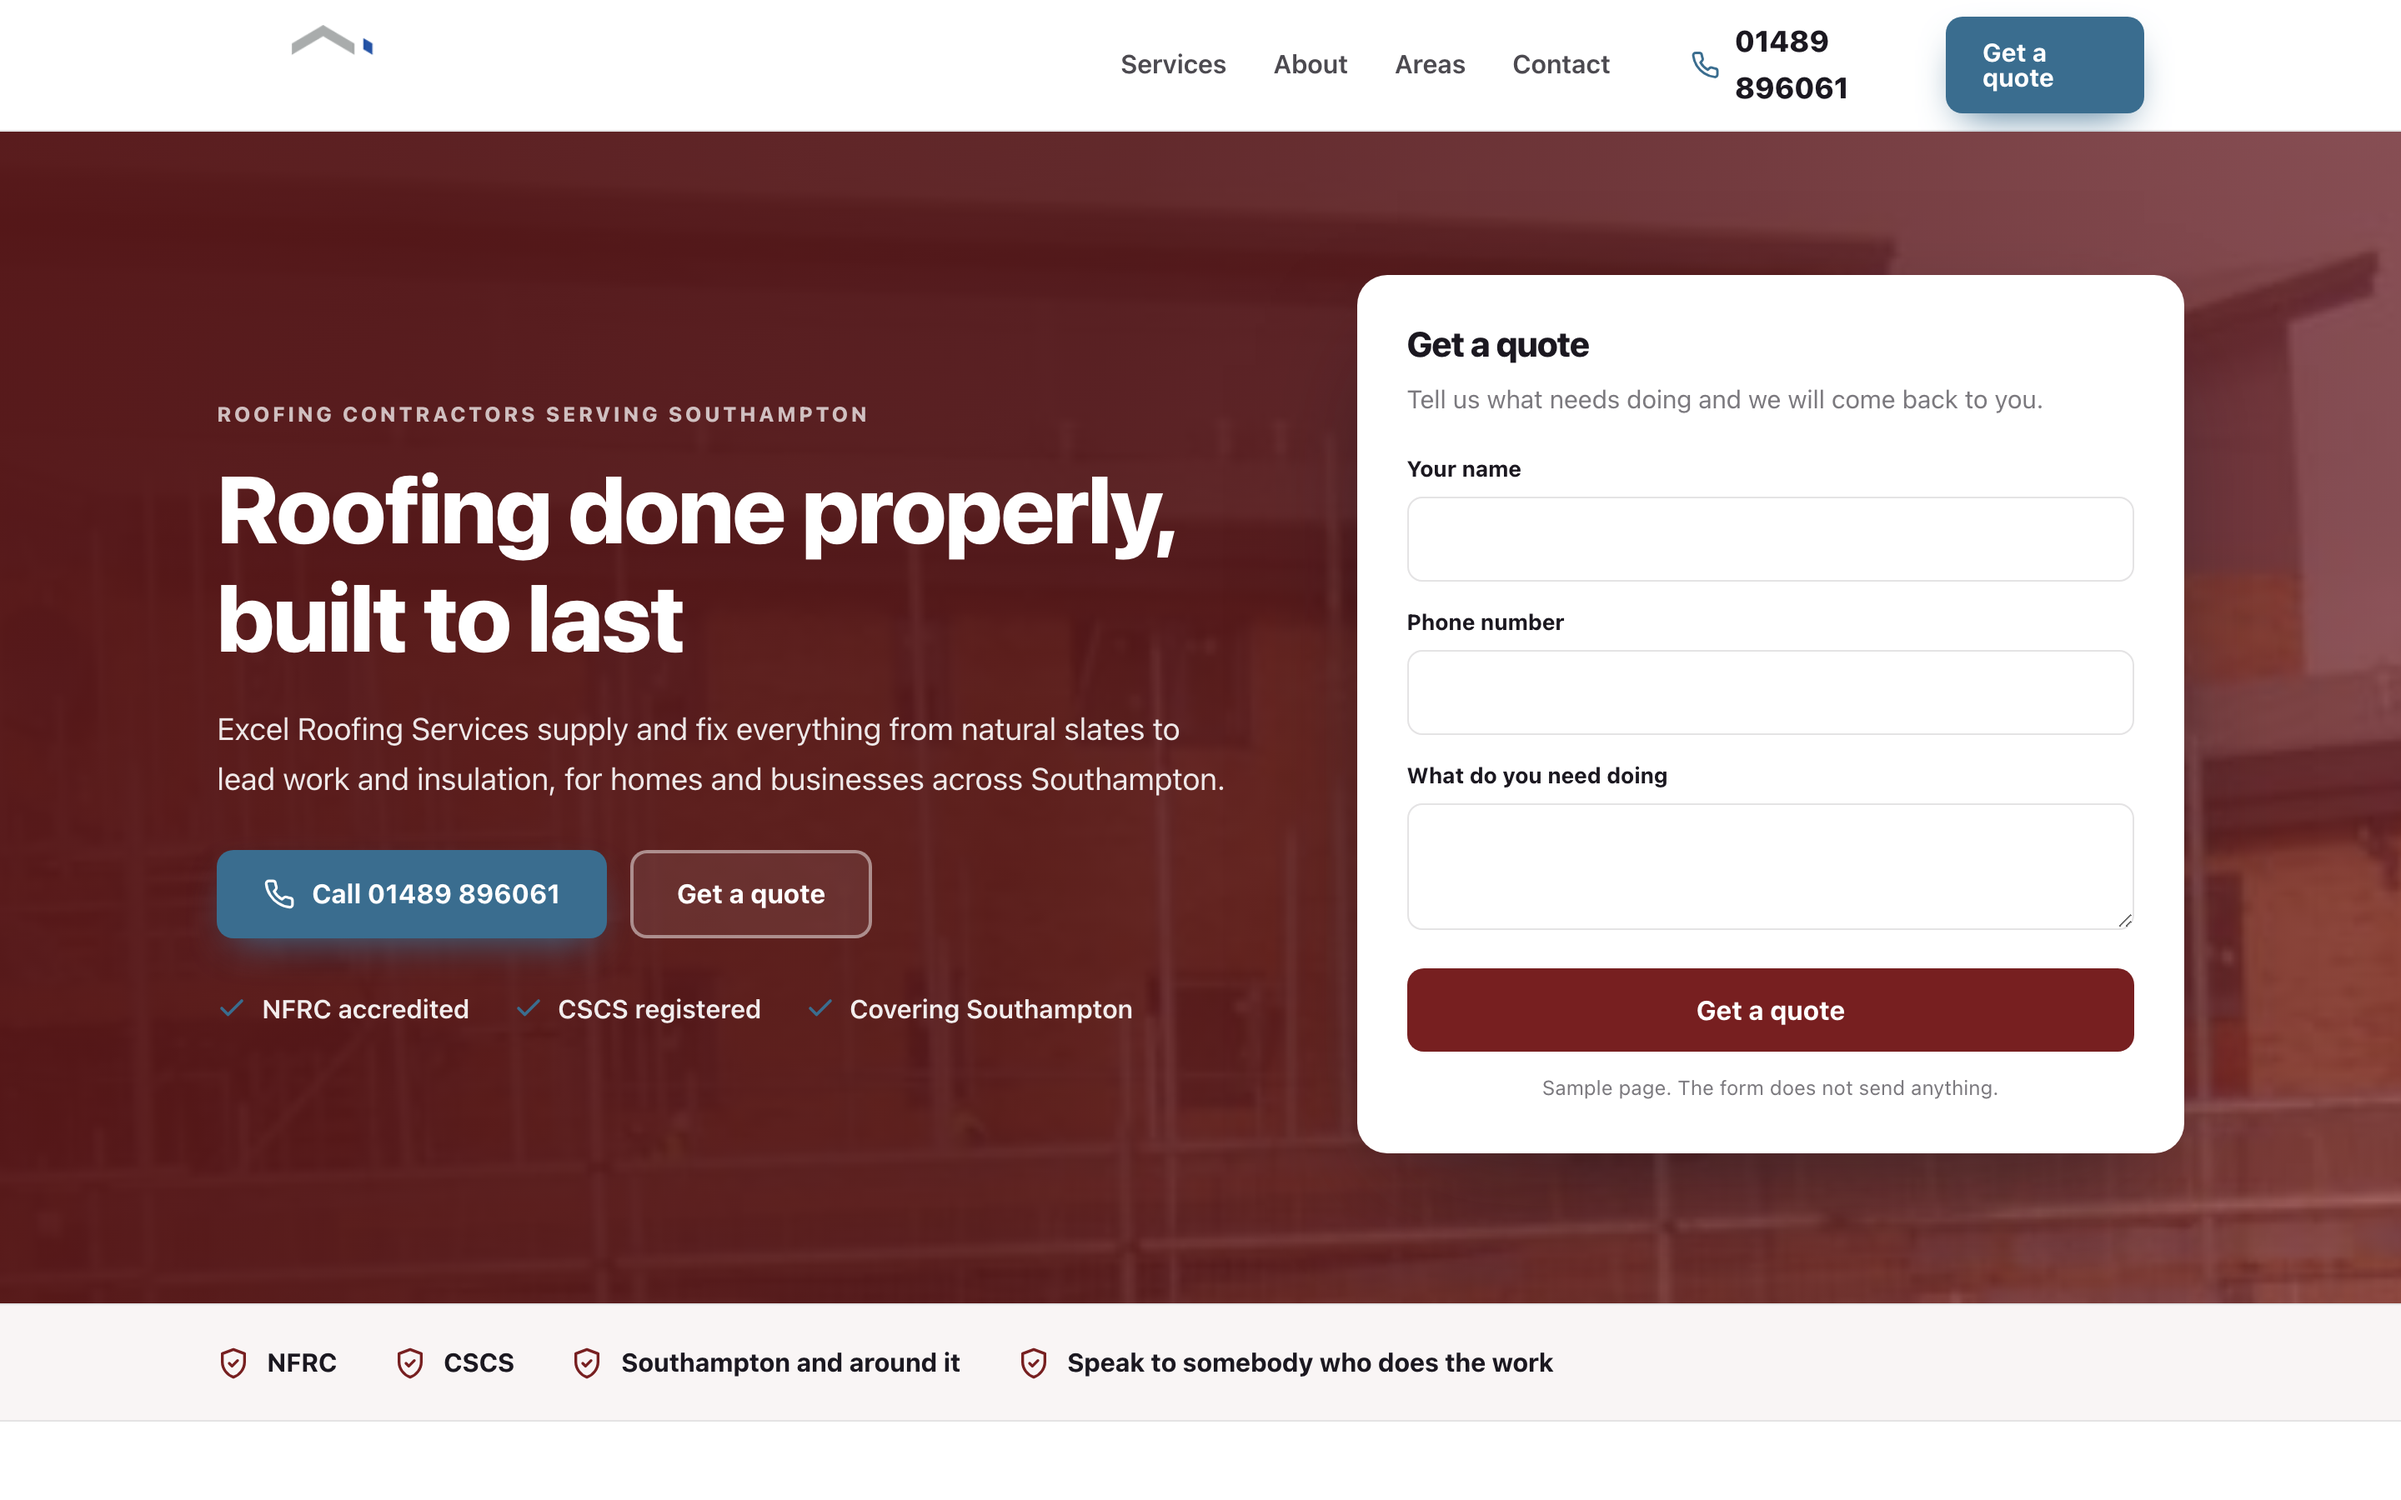
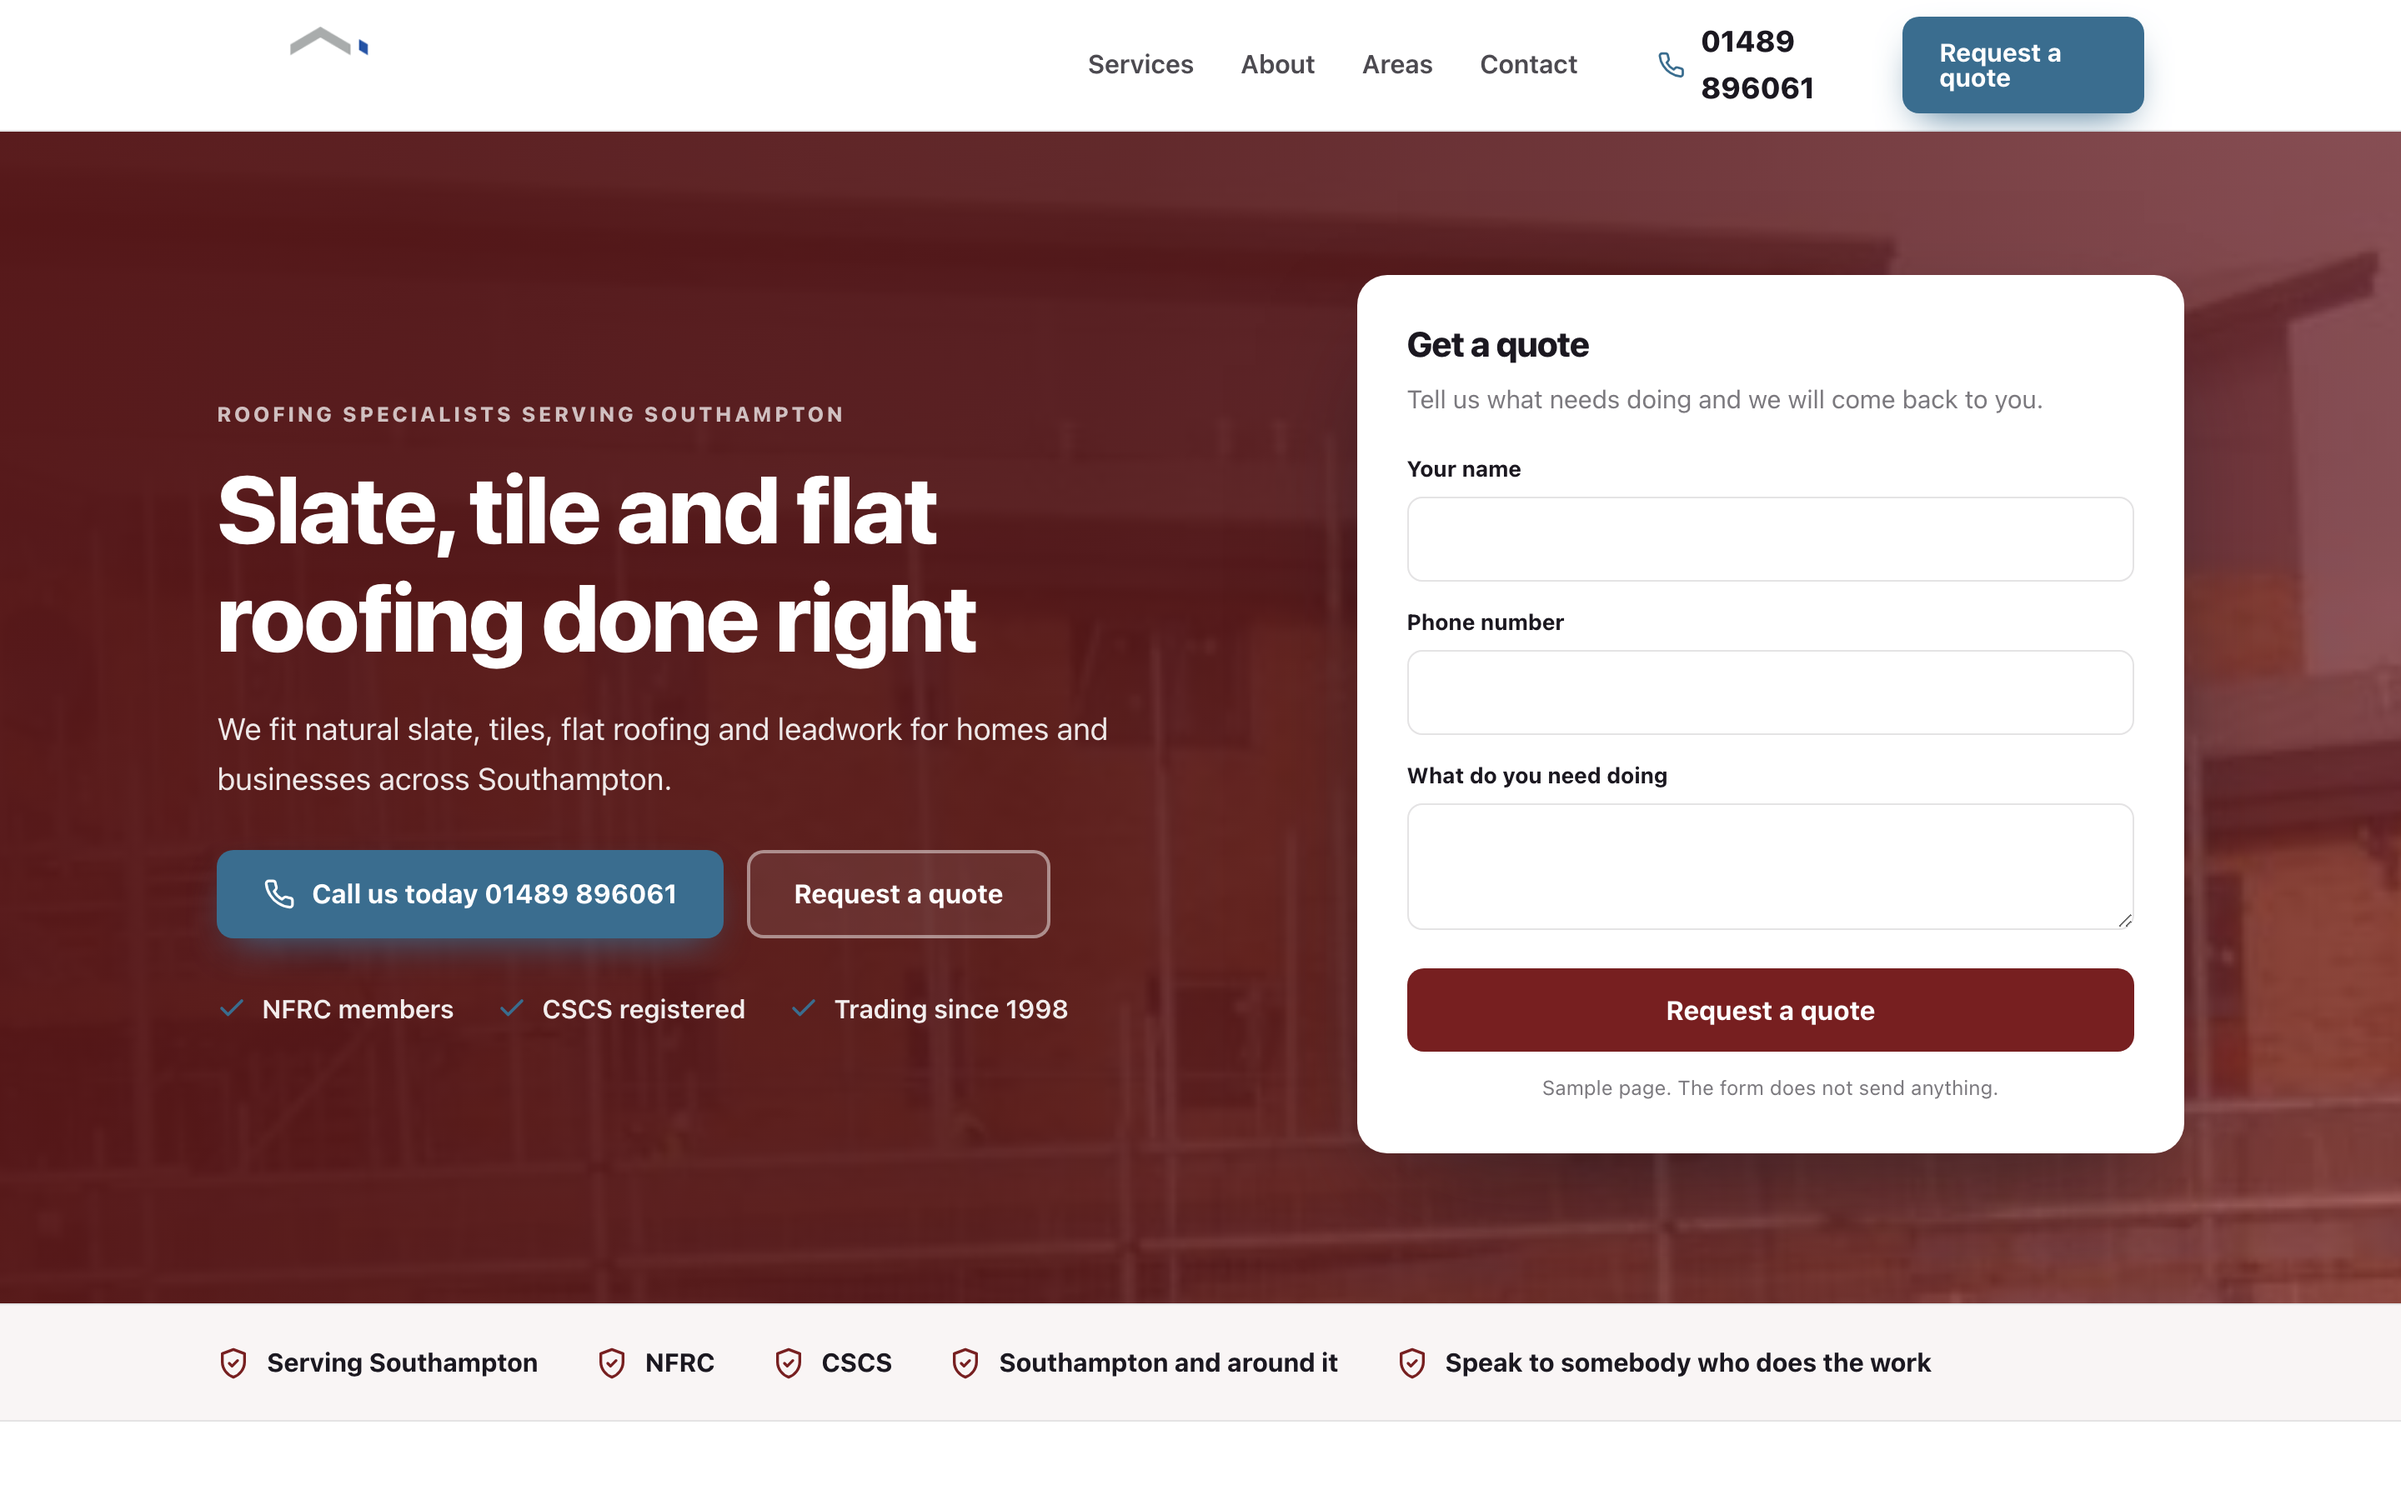
Sample homepage for Excel Roofing Services Ltd

diff --git a/docs/45bf19065b/index.html b/docs/45bf19065b/index.html
@@ -4,14 +4,15 @@
 <meta charset="utf-8">
 <meta name="viewport" content="width=device-width, initial-scale=1">
 <meta name="robots" content="noindex,nofollow">
-<title>Excel Roofing Services sample homepage</title>
-<meta name="description" content="Excel Roofing Services supply and fix everything from natural slates to lead work and insulation, for homes and businesses across Southampton.">
+<meta name="aso-build" content="">
+<title>Excel Roofing Services Ltd sample homepage</title>
+<meta name="description" content="We fit natural slate, tiles, flat roofing and leadwork for homes and businesses across Southampton.">
 <link rel="canonical" href="https://markygff.github.io/aso-mockups/45bf19065b/">
 <meta property="og:type" content="website">
-<meta property="og:title" content="Excel Roofing Services sample homepage">
-<meta property="og:description" content="Excel Roofing Services supply and fix everything from natural slates to lead work and insulation, for homes and businesses across Southampton.">
+<meta property="og:title" content="Excel Roofing Services Ltd sample homepage">
+<meta property="og:description" content="We fit natural slate, tiles, flat roofing and leadwork for homes and businesses across Southampton.">
 <meta property="og:url" content="https://markygff.github.io/aso-mockups/45bf19065b/">
-<meta property="og:image" content="https://www.excelroofingservices.co.uk/wp-content/uploads/2011/04/modern.jpg"><style>
+<meta property="og:image" content="img/p01.jpg"><style>
 :root{
   --primary:#771f20;
   --primary-dark:#561617;
@@ -52,7 +53,8 @@ p{margin:0}
 .nav{display:flex;gap:28px;margin-left:auto;font-weight:600;font-size:.97rem;color:var(--ink)}
 .nav span{opacity:.78}
 .header-cta{display:flex;align-items:center;gap:14px;margin-left:28px}
-.tel{display:flex;align-items:center;gap:9px;font-weight:800;font-size:1.1rem;color:var(--ink)}
+.tel{display:flex;align-items:center;gap:9px;font-weight:800;font-size:1.1rem;
+     color:var(--ink);text-decoration:none}
 .tel svg{width:20px;height:20px;color:var(--accent)}
 .header-cta .btn{padding:12px 20px;font-size:.95rem}
 
@@ -119,30 +121,30 @@ p{margin:0}
 <header class="header">
   <div class="wrap header-in">
     <div class="brand">
-<img src="https://www.excelroofingservices.co.uk/wp-content/uploads/2017/06/roofing-2.png" alt="Excel Roofing Services logo">    </div>
+<img src="img/logo.png" alt="Excel Roofing Services Ltd logo">    </div>
     <nav class="nav">
       <span>Services</span><span>About</span><span>Areas</span><span>Contact</span>
     </nav>
     <div class="header-cta">
-      <span class="tel"><svg viewBox="0 0 24 24" fill="none" stroke="currentColor" stroke-width="2" stroke-linecap="round" stroke-linejoin="round" aria-hidden="true"><path d="M22 16.9v3a2 2 0 0 1-2.2 2 19.8 19.8 0 0 1-8.6-3.1 19.5 19.5 0 0 1-6-6 19.8 19.8 0 0 1-3.1-8.7A2 2 0 0 1 4.1 2h3a2 2 0 0 1 2 1.7c.1 1 .4 1.9.7 2.8a2 2 0 0 1-.5 2.1L8.1 9.9a16 16 0 0 0 6 6l1.3-1.2a2 2 0 0 1 2.1-.5c.9.3 1.8.6 2.8.7a2 2 0 0 1 1.7 2z"/></svg><span>01489 896061</span></span>
-      <span class="btn btn-accent">Get a quote</span>
+      <a class="tel" href="tel:+441489896061"><svg viewBox="0 0 24 24" fill="none" stroke="currentColor" stroke-width="2" stroke-linecap="round" stroke-linejoin="round" aria-hidden="true"><path d="M22 16.9v3a2 2 0 0 1-2.2 2 19.8 19.8 0 0 1-8.6-3.1 19.5 19.5 0 0 1-6-6 19.8 19.8 0 0 1-3.1-8.7A2 2 0 0 1 4.1 2h3a2 2 0 0 1 2 1.7c.1 1 .4 1.9.7 2.8a2 2 0 0 1-.5 2.1L8.1 9.9a16 16 0 0 0 6 6l1.3-1.2a2 2 0 0 1 2.1-.5c.9.3 1.8.6 2.8.7a2 2 0 0 1 1.7 2z"/></svg><span>01489 896061</span></a>
+      <span class="btn btn-accent">Request a quote</span>
     </div>
   </div>
 </header>
 
 <section class="hero">
-  <div class="hero-bg"><img src="https://www.excelroofingservices.co.uk/wp-content/uploads/2011/04/modern.jpg" alt="Excel Roofing Services at work" width="1600" height="900"></div>
+  <div class="hero-bg"><img src="img/p01.jpg" alt="Excel Roofing Services Ltd at work" width="1600" height="900"></div>
   <div class="wrap hero-in">
     <div>
-      <p class="eyebrow">Roofing contractors serving Southampton</p>
-      <h1>Roofing done properly, built to last</h1>
-      <p class="hero-sub">Excel Roofing Services supply and fix everything from natural slates to lead work and insulation, for homes and businesses across Southampton.</p>
+      <p class="eyebrow">Roofing specialists serving Southampton</p>
+      <h1>Slate, tile and flat roofing done right</h1>
+      <p class="hero-sub">We fit natural slate, tiles, flat roofing and leadwork for homes and businesses across Southampton.</p>
       <div class="hero-actions">
-        <span class="btn btn-accent"><svg viewBox="0 0 24 24" fill="none" stroke="currentColor" stroke-width="2" stroke-linecap="round" stroke-linejoin="round" aria-hidden="true"><path d="M22 16.9v3a2 2 0 0 1-2.2 2 19.8 19.8 0 0 1-8.6-3.1 19.5 19.5 0 0 1-6-6 19.8 19.8 0 0 1-3.1-8.7A2 2 0 0 1 4.1 2h3a2 2 0 0 1 2 1.7c.1 1 .4 1.9.7 2.8a2 2 0 0 1-.5 2.1L8.1 9.9a16 16 0 0 0 6 6l1.3-1.2a2 2 0 0 1 2.1-.5c.9.3 1.8.6 2.8.7a2 2 0 0 1 1.7 2z"/></svg>Call 01489 896061</span>
-        <span class="btn btn-ghost">Get a quote</span>
+        <span class="btn btn-accent"><svg viewBox="0 0 24 24" fill="none" stroke="currentColor" stroke-width="2" stroke-linecap="round" stroke-linejoin="round" aria-hidden="true"><path d="M22 16.9v3a2 2 0 0 1-2.2 2 19.8 19.8 0 0 1-8.6-3.1 19.5 19.5 0 0 1-6-6 19.8 19.8 0 0 1-3.1-8.7A2 2 0 0 1 4.1 2h3a2 2 0 0 1 2 1.7c.1 1 .4 1.9.7 2.8a2 2 0 0 1-.5 2.1L8.1 9.9a16 16 0 0 0 6 6l1.3-1.2a2 2 0 0 1 2.1-.5c.9.3 1.8.6 2.8.7a2 2 0 0 1 1.7 2z"/></svg>Call us today 01489 896061</span>
+        <span class="btn btn-ghost">Request a quote</span>
       </div>
       <ul class="hero-bullets">
-<li><svg viewBox="0 0 24 24" fill="none" stroke="currentColor" stroke-width="2.4" stroke-linecap="round" stroke-linejoin="round" aria-hidden="true"><path d="M20 6 9 17l-5-5"/></svg><span>NFRC accredited</span></li><li><svg viewBox="0 0 24 24" fill="none" stroke="currentColor" stroke-width="2.4" stroke-linecap="round" stroke-linejoin="round" aria-hidden="true"><path d="M20 6 9 17l-5-5"/></svg><span>CSCS registered</span></li><li><svg viewBox="0 0 24 24" fill="none" stroke="currentColor" stroke-width="2.4" stroke-linecap="round" stroke-linejoin="round" aria-hidden="true"><path d="M20 6 9 17l-5-5"/></svg><span>Covering Southampton</span></li>      </ul>
+<li><svg viewBox="0 0 24 24" fill="none" stroke="currentColor" stroke-width="2.4" stroke-linecap="round" stroke-linejoin="round" aria-hidden="true"><path d="M20 6 9 17l-5-5"/></svg><span>NFRC members</span></li><li><svg viewBox="0 0 24 24" fill="none" stroke="currentColor" stroke-width="2.4" stroke-linecap="round" stroke-linejoin="round" aria-hidden="true"><path d="M20 6 9 17l-5-5"/></svg><span>CSCS registered</span></li><li><svg viewBox="0 0 24 24" fill="none" stroke="currentColor" stroke-width="2.4" stroke-linecap="round" stroke-linejoin="round" aria-hidden="true"><path d="M20 6 9 17l-5-5"/></svg><span>Trading since 1998</span></li>      </ul>
     </div>
     <div class="quote-card">
       <h3>Get a quote</h3>
@@ -150,7 +152,7 @@ p{margin:0}
       <div class="field"><label>Your name</label><input type="text" disabled></div>
       <div class="field"><label>Phone number</label><input type="tel" disabled></div>
       <div class="field"><label>What do you need doing</label><textarea disabled></textarea></div>
-      <span class="btn btn-primary">Get a quote</span>
+      <span class="btn btn-primary">Request a quote</span>
       <p class="sample-note">Sample page. The form does not send anything.</p>
     </div>
   </div>
@@ -158,6 +160,7 @@ p{margin:0}
 
 <div class="strip">
   <div class="wrap strip-in">
+    <div class="strip-item"><svg viewBox="0 0 24 24" fill="none" stroke="currentColor" stroke-width="2" stroke-linecap="round" stroke-linejoin="round" aria-hidden="true"><path d="M12 2 4 5v6c0 5 3.4 9.4 8 11 4.6-1.6 8-6 8-11V5z"/><path d="m9 12 2 2 4-4"/></svg><span>Serving Southampton</span></div>
     <div class="strip-item"><svg viewBox="0 0 24 24" fill="none" stroke="currentColor" stroke-width="2" stroke-linecap="round" stroke-linejoin="round" aria-hidden="true"><path d="M12 2 4 5v6c0 5 3.4 9.4 8 11 4.6-1.6 8-6 8-11V5z"/><path d="m9 12 2 2 4-4"/></svg><span>NFRC</span></div>
     <div class="strip-item"><svg viewBox="0 0 24 24" fill="none" stroke="currentColor" stroke-width="2" stroke-linecap="round" stroke-linejoin="round" aria-hidden="true"><path d="M12 2 4 5v6c0 5 3.4 9.4 8 11 4.6-1.6 8-6 8-11V5z"/><path d="m9 12 2 2 4-4"/></svg><span>CSCS</span></div>
     <div class="strip-item"><svg viewBox="0 0 24 24" fill="none" stroke="currentColor" stroke-width="2" stroke-linecap="round" stroke-linejoin="round" aria-hidden="true"><path d="M12 2 4 5v6c0 5 3.4 9.4 8 11 4.6-1.6 8-6 8-11V5z"/><path d="m9 12 2 2 4-4"/></svg><span>Southampton and around it</span></div>
@@ -169,29 +172,29 @@ p{margin:0}
   <div class="wrap">
     <div class="services-head">
       <p class="eyebrow">What we do</p>
-      <h2>Excel Roofing Services, Southampton</h2>
-      <p>Excel Roofing Services supply and fix everything from natural slates to lead work and insulation, for homes and businesses across Southampton.</p>
+      <h2>Excel Roofing Services Ltd, Southampton</h2>
+      <p>We fit natural slate, tiles, flat roofing and leadwork for homes and businesses across Southampton.</p>
     </div>
     <div class="grid">
       <article class="card">
         <div class="icon"><svg viewBox="0 0 24 24" fill="none" stroke="currentColor" stroke-width="2" stroke-linecap="round" stroke-linejoin="round" aria-hidden="true"><path d="M14.7 6.3a4 4 0 0 0 5.3 5.3l-8 8a3 3 0 0 1-4.2-4.2z"/><path d="m14.7 6.3 3-3"/></svg></div>
         <h3>Natural Slates</h3>
-        <p>Supply and fix natural slate roofing done the proper way.</p>
+        <p>Traditional slate roofing, supplied and fitted properly.</p>
       </article>
       <article class="card">
         <div class="icon"><svg viewBox="0 0 24 24" fill="none" stroke="currentColor" stroke-width="2" stroke-linecap="round" stroke-linejoin="round" aria-hidden="true"><path d="M13 2 4 14h7l-1 8 9-12h-7z"/></svg></div>
         <h3>Lead Work</h3>
-        <p>Skilled lead work for flashings, valleys and detailing.</p>
+        <p>Leadwork detailing for valleys, flashings and flat roof edges.</p>
       </article>
       <article class="card">
         <div class="icon"><svg viewBox="0 0 24 24" fill="none" stroke="currentColor" stroke-width="2" stroke-linecap="round" stroke-linejoin="round" aria-hidden="true"><path d="M3 10.5 12 3l9 7.5"/><path d="M5 9.5V21h14V9.5"/><path d="M10 21v-6h4v6"/></svg></div>
         <h3>Single Ply Roofing</h3>
-        <p>Single ply systems fitted for flat and low-pitch roofs.</p>
+        <p>A modern flat roof system built to last.</p>
       </article>
       <article class="card">
         <div class="icon"><svg viewBox="0 0 24 24" fill="none" stroke="currentColor" stroke-width="2" stroke-linecap="round" stroke-linejoin="round" aria-hidden="true"><path d="M4 20 15 9"/><path d="m14 4 6 6-3 3-6-6z"/><path d="m3 15 6 6"/></svg></div>
-        <h3>Insulation</h3>
-        <p>Roof insulation fitted to keep your building warm and dry.</p>
+        <h3>Built-Up Felt Roofing</h3>
+        <p>Multi-layer felt roofing for flat and low-pitch roofs.</p>
       </article>
     </div>
   </div>
@@ -199,7 +202,7 @@ p{margin:0}
 
 <footer class="footer">
   <div class="wrap footer-in">
-    <span>Sample built for Excel Roofing Services from your public website. Not live. Tell us and we delete it.</span>
+    <span>Sample built for Excel Roofing Services Ltd from your public website. Not live. Tell us and we delete it.</span>
     <span>excelroofingservices.co.uk</span>
   </div>
 </footer>
